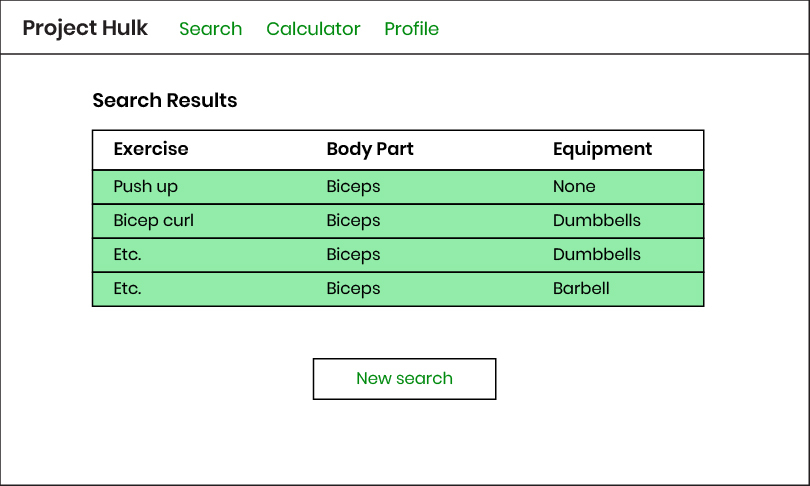
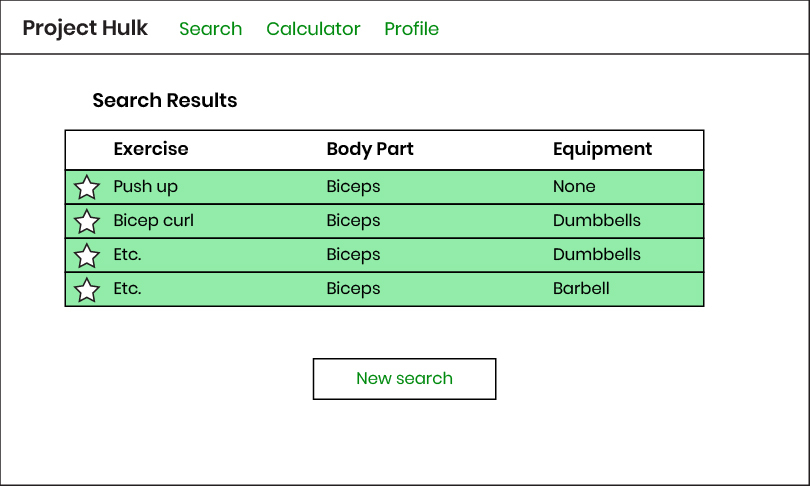
Added Favorite Features

Changed region(s): [[0.0617, 0.2469, 0.1235, 0.6481]]

diff --git a/Designs/Web_Page_Design.md b/Designs/Web_Page_Design.md
@@ -90,13 +90,14 @@ Data:
     - Equipment {parameter - equipment}
 
 Link Destinations:
-- Each row of the search result table is a link to the associated exercise detail page. The particular exercise, body part, and equipment are passed as parameters to the excercize_detail url.
+- Each row of the search result table is a link to the associated exercise detail page. The particular exercise, body part, and equipment are passed as parameters to the exercise_detail url.
 - The “New Search” button will simply redirect the browser back to the Search page.
+- Clicking the star sends a post request with exercise, body_part, and equipment parameters to write the exercise into the favorites sql table.
 
 Tests: 
 - The body part and equipment attributes in the search result table will match those passed as parameters by the user from the search page
 - Each exercise row in the search result table must be valid exercises stored in our sql table that match both of the parameters body_part and equipment.
-- When a row is clicked the browser must successfully navigate to the Excercize Detail page.
+- When a row is clicked the browser must successfully navigate to the Exercise Detail page.
 - When the “New Search” button is clicked the browser must successfully redirect to the Search page.
 
 ---
@@ -117,7 +118,9 @@ Data:
 - Equipment: {parameter - equipment}
 - Description: {description value is pulled from the sql table matching exercise, body_part, and equipment attributes}
 
-Link Destinations: None
+Link Destinations: 
+
+When clicked "Add to Favorites" sends a post request with exercise, body_part, and equipment parameters to write the exercise into the favorites sql table.
 
 Tests:
 - Exercise Name, Body Part and Equipment must match the parameters passed from the  previous webpage and be valid values in the related sql table.
